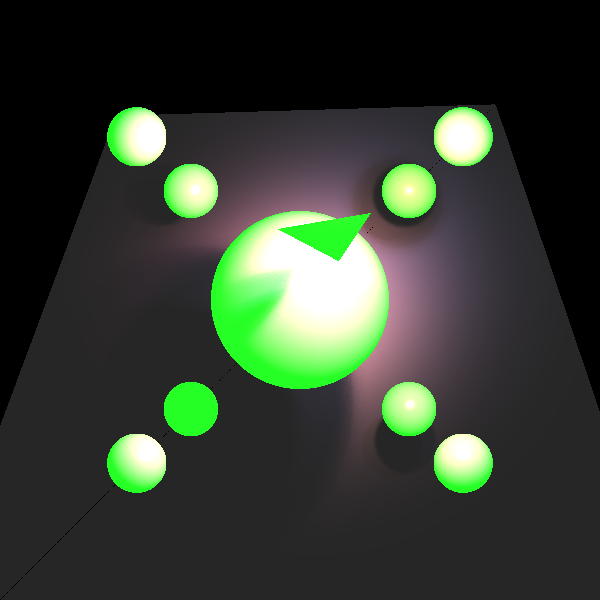
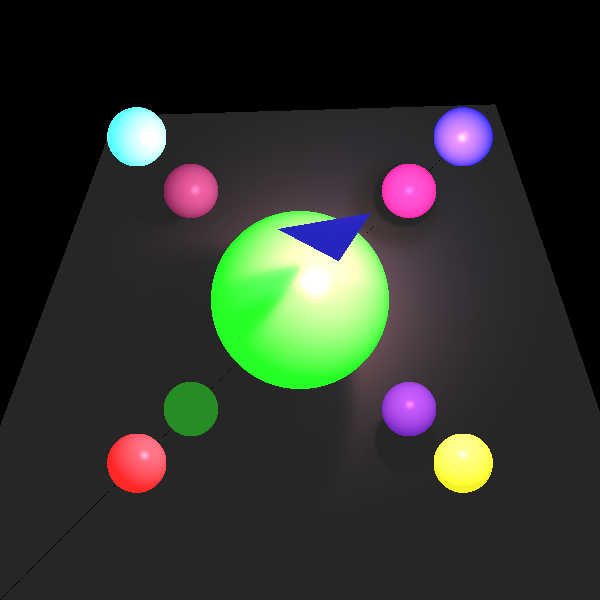
Some improvements to the photo.

diff --git a/unitTests/special/MiniProject1.java b/unitTests/special/MiniProject1.java
@@ -1,0 +1,151 @@
+package special;
+
+import geometries.Sphere;
+import geometries.Triangle;
+import lighting.AmbientLight;
+import lighting.SpotLight;
+import org.junit.jupiter.api.Test;
+import primitives.*;
+import renderer.Camera;
+import renderer.ImageWriter;
+import renderer.RayTracerBasic;
+import scene.Scene;
+
+import static java.awt.Color.*;
+
+public class MiniProject1
+{
+	private Scene scene = new Scene.SceneBuilder("Test scene").build();
+	private Camera camera = new Camera(new Point(0, 0, 1000), new Vector(0, 0, -1), new Vector(0, 1, 0)) //
+			.setVPSize(200, 200)
+			.setVPDistance(1000) //
+			.setRayTracer(new RayTracerBasic(scene).setSoftShadow(true));//.setSample(100));
+	
+	/**
+	 * Produce a picture of two triangles lighted by a spot light with a Sphere
+	 * producing a shading
+	 */
+	@Test
+	public void miniProject1()
+	{
+		scene.ambientLight = new AmbientLight(new Color(java.awt.Color.WHITE), new Double3(0.15, 0.15, 0.15));
+		
+		scene.geometries.add( //
+							  // right base triangle
+							  new Triangle(new Point(-150, -150, -115),
+                                           new Point(150, -150, -135),
+										   new Point(75, 75, -150)) //
+									  .setMaterial(new Material().setKs(new Double3(0.8))
+														   .setShininess(60)), //
+                              
+                              // left base triangle
+							  new Triangle(new Point(-150, -150, -115),
+                                           new Point(-70, 70, -140),
+										   new Point(75, 75, -150)) //
+									  .setMaterial(new Material().setKs(0.8)
+														   .setShininess(60)), //
+                              
+                              // center sphere
+							  new Sphere(30d, new Point(0, 0, -11)) //
+									  .setEmission(new Color(GREEN)) //
+									  .setMaterial(new Material().setKd(0.5)
+														   .setKs(0.5)
+														   .setShininess(30)),
+                              
+                              // shade triangle
+							  new Triangle(new Point(22, 27, 70),
+                                           new Point(-7, 22, 70),
+                                           new Point(12, 12, 70))
+									  .setMaterial(new Material().setKs(0.8)
+														   .setShininess(60))
+									  .setEmission(new Color(0,0,153)), //
+                              
+                              // right top sphere (out)
+							  new Sphere(10, new Point(55, 55, -11)) //
+									  .setEmission(new Color(blue)) //
+									  .setMaterial(new Material().setKd(0.5)
+														   .setKs(0.5)
+														   .setShininess(30)),
+                              
+                              // left bottom sphere (out)
+                              new Sphere(10, new Point(-55, -55, -11)) //
+									  .setEmission(new Color(red)) //
+									  .setMaterial(new Material().setKd(0.5)
+														   .setKs(0.5)
+														   .setShininess(30)),
+							  
+                              // right bottom sphere (out)
+                              new Sphere(10, new Point(55, -55, -11)) //
+									  .setEmission(new Color(204, 204, 0)) //
+									  .setMaterial(new Material().setKd(0.5)
+														   .setKs(0.5)
+														   .setShininess(30)), //
+                              
+                              // left top sphere (out)
+                              new Sphere(10, new Point(-55, 55, -11)) //
+									  .setEmission(new Color(51, 255, 255)) //
+									  .setMaterial(new Material().setKd(0.5)
+														   .setKs(0.5)
+														   .setShininess(30)),
+                              
+                              // right top sphere (inside)
+                              new Sphere(10, new Point(40, 40, -100)) //
+									  .setEmission(new Color(255, 0, 127)) //
+									  .setMaterial(new Material().setKd(0.5)
+														   .setKs(0.5)
+														   .setShininess(30)), //
+                              
+                              // left bottom sphere (inside)
+                              new Sphere(10, new Point(-40, -40, -100)) //
+									  .setEmission(new Color(0, 102, 0)) //
+									  .setMaterial(new Material().setKd(0.5)
+														   .setKs(0.5)
+														   .setShininess(30)),
+                              
+                              // right bottom sphere (inside)
+                              new Sphere(10, new Point(40, -40, -100)) //
+									  .setEmission(new Color(76, 0,153)) //
+									  .setMaterial(new Material().setKd(0.5)
+														   .setKs(0.5)
+														   .setShininess(30)), //
+                              
+                              // left top sphere (inside)
+                              new Sphere(10, new Point(-40, 40, -100)) //
+									  .setEmission(new Color(102,0,51)) //
+									  .setMaterial(new Material().setKd(0.5)
+														   .setKs(0.5)
+														   .setShininess(30))
+                            );
+        
+        // shade for center sphere and triangle
+		scene.lights.add( //
+				new SpotLight(
+	        			new Color(700, 400, 400),
+						new Point(40, 40, 115),
+						new Vector(-1, -1, -4)) //
+			            .setKl(4E-4)
+						.setKq(7E-5));
+
+        // shade for top right sphere
+		scene.lights.add(
+                new SpotLight(
+                        new Color(300, 280, 500),
+                        new Point(80, 80, 175),
+                        new Vector(-3, -2, -1)) //
+                        .setKl(4E-4)
+						.setKq(7E-5));
+        
+		scene.lights.add(
+                new SpotLight(
+                        new Color(650, 180, 412),
+                        new Point(12, 38, 105),
+                        new Vector(-1, 0, -4)) //
+                        .setKl(4E-5)
+                        .setKq(7E-4));
+		
+		camera.setImageWriter(new ImageWriter("MiniProject1", 600, 600)) //
+				.renderImage() //
+				.writeToImage();
+	}
+	
+}
